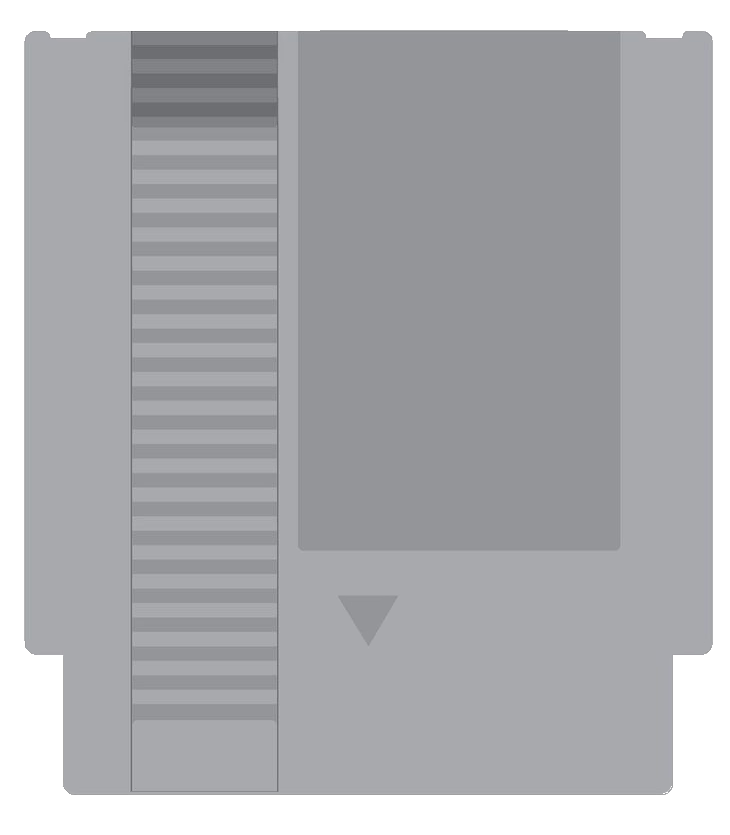
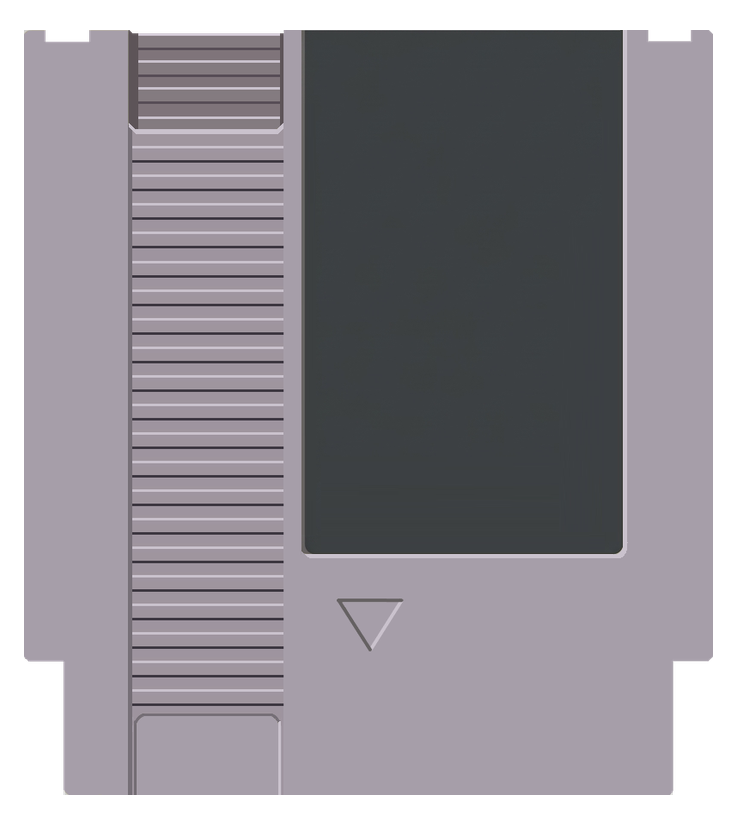
Novos cartuchos NES e GB e correcao do serrilhado da barra lateral
- Substitui o molde do NES mantendo a mesma area no canvas 730x835
- Adiciona o molde do GB, com etiqueta de quatro cantos arredondados
- Capas de GB/GBC passam a ser lidas de labels/gb e labels/gbc
- GBC configurado com medidas provisorias; o PNG do molde ainda falta
- Gera contornos, paineis e icones laterais na resolucao fisica da janela

Claude-Session: https://claude.ai/code/session_018gyPGS9GMd5PgjXCF8iK74

diff --git a/ui_menu.c b/ui_menu.c
@@ -503,10 +503,14 @@ static SDL_Texture *icone_textura_preparada(const char *caminho,
     }
     return tex;
 }
-/* A barra lateral conserva sua textura intermediaria compacta de ate 64px. */
+/* Os icones da lateral sao reduzidos por media de area direto para o tamanho
+   em que aparecem (px fisicos), evitando uma segunda reducao na tela. */
+static int lado_textura_lateral=64;
+static float escala_fisica_ui(void);
 static SDL_Texture *icone_textura_suavizada(const char *caminho,
                                            const SDL_Color *tingir) {
-    return icone_textura_preparada(caminho,tingir,64,64,NULL,NULL);
+    return icone_textura_preparada(caminho,tingir,lado_textura_lateral,
+                                   lado_textura_lateral,NULL,NULL);
 }
 static SDL_Texture *carregar_icone_tingido(const char *caminho,SDL_Color cor) {
     return icone_textura_suavizada(caminho,&cor);
@@ -656,6 +660,7 @@ static void carregar_icones_preset(void) {
     const char *pasta=preset==PRESET_LIGHT?"light":
                       preset==PRESET_DARK?"dark":"colorful";
     const int custom=pacote_usuario_selecionado[0]!='\0';
+    lado_textura_lateral=(int)lroundf(SIDEBAR_ICON*escala_fisica_ui());
     for(int i=0;i<TOTAL_ACOES_LATERAIS;++i) {
         if(icones_laterais[i]) {
             SDL_DestroyTexture(icones_laterais[i]);
@@ -1549,7 +1554,8 @@ static void contorno(SDL_Rect r, int espessura, SDL_Color c) {
    Cache de geometrias evita reconstruir os paineis a cada frame. */
 #define LIMITE_CACHE_ARREDONDADO 96
 typedef struct {
-    int w, h, raio, borda;
+    int w, h;
+    float raio, borda;
     SDL_Color cor;
     SDL_Texture *tex;
 } EntradaArredondado;
@@ -1560,16 +1566,23 @@ static int proximo_cache_arredondado=0;
 static float limite01(float n) {
     return n<0.0f?0.0f:(n>1.0f?1.0f:n);
 }
-static float cobertura_arredondada(float px,float py,int largura,int altura,int raio) {
-    float mx=largura*0.5f, my=altura*0.5f;
+/* Distancia com sinal ate a borda de um retangulo arredondado (negativa
+   dentro). */
+static float distancia_retangulo_arredondado(float px,float py,float w,float h,
+                                             float raio) {
+    float mx=w*0.5f,my=h*0.5f;
     float dx=fabsf(px-mx)-(mx-raio);
     float dy=fabsf(py-my)-(my-raio);
-    float dx_externo=dx>0.0f?dx:0.0f;
-    float dy_externo=dy>0.0f?dy:0.0f;
-    float externo=sqrtf(dx_externo*dx_externo+dy_externo*dy_externo);
-    float interno=fminf(fmaxf(dx,dy),0.0f);
-    float distancia=externo+interno-raio;
-    return limite01(0.5f-distancia);
+    float fx=dx>0.0f?dx:0.0f,fy=dy>0.0f?dy:0.0f;
+    return sqrtf(fx*fx+fy*fy)+fminf(fmaxf(dx,dy),0.0f)-raio;
+}
+/* Pixels reais por pixel logico. O menu usa 1280x720 logicos, ampliados pelo
+   SDL para o tamanho da janela. */
+static float escala_fisica_ui(void) {
+    float sx=1.0f,sy=1.0f;
+    SDL_RenderGetScale(renderer,&sx,&sy);
+    float s=fminf(sx,sy);
+    return s>0.0f?s:1.0f;
 }
 static void limpar_cache_arredondado(void) {
     for(int i=0;i<total_cache_arredondado;++i) {
@@ -1578,7 +1591,8 @@ static void limpar_cache_arredondado(void) {
     }
     total_cache_arredondado=proximo_cache_arredondado=0;
 }
-static SDL_Texture *textura_arredondada(int w,int h,int raio,SDL_Color cor,int borda) {
+/* Todas as medidas aqui sao em pixels fisicos. borda=0 preenche a forma. */
+static SDL_Texture *textura_arredondada(int w,int h,float raio,SDL_Color cor,float borda) {
     for(int i=0;i<total_cache_arredondado;++i) {
         EntradaArredondado *e=&cache_arredondados[i];
         if(e->w==w && e->h==h && e->raio==raio && e->borda==borda &&
@@ -1587,16 +1601,17 @@ static SDL_Texture *textura_arredondada(int w,int h,int raio,SDL_Color cor,int b
     SDL_Surface *superficie=SDL_CreateRGBSurfaceWithFormat(0,w,h,32,SDL_PIXELFORMAT_RGBA32);
     if(!superficie) return NULL;
     if(SDL_LockSurface(superficie)!=0) {SDL_FreeSurface(superficie);return NULL;}
-    int interno_w=w-2*borda, interno_h=h-2*borda;
-    int interno_raio=raio-borda;
-    if(interno_raio<0) interno_raio=0;
+    float interno_w=w-2.0f*borda, interno_h=h-2.0f*borda;
+    float interno_raio=fmaxf(raio-borda,0.0f);
     for(int y=0;y<h;++y) {
         Uint32 *linha=(Uint32*)((Uint8*)superficie->pixels+y*superficie->pitch);
         for(int x=0;x<w;++x) {
             float px=x+0.5f, py=y+0.5f;
-            float cobertura=cobertura_arredondada(px,py,w,h,raio);
-            if(borda>0 && interno_w>0 && interno_h>0) {
-                float interior=cobertura_arredondada(px-borda,py-borda,interno_w,interno_h,interno_raio);
+            float cobertura=limite01(0.5f-distancia_retangulo_arredondado(
+                                           px,py,(float)w,(float)h,raio));
+            if(borda>0.0f && interno_w>0.0f && interno_h>0.0f) {
+                float interior=limite01(0.5f-distancia_retangulo_arredondado(
+                    px-borda,py-borda,interno_w,interno_h,interno_raio));
                 cobertura=limite01(cobertura-interior);
             }
             Uint8 alpha=(Uint8)(cor.a*cobertura+0.5f);
@@ -1608,6 +1623,9 @@ static SDL_Texture *textura_arredondada(int w,int h,int raio,SDL_Color cor,int b
     SDL_FreeSurface(superficie);
     if(!tex) return NULL;
     SDL_SetTextureBlendMode(tex,SDL_BLENDMODE_BLEND);
+#if SDL_VERSION_ATLEAST(2,0,12)
+    SDL_SetTextureScaleMode(tex,SDL_ScaleModeLinear);
+#endif
     int indice;
     if(total_cache_arredondado<LIMITE_CACHE_ARREDONDADO) indice=total_cache_arredondado++;
     else {
@@ -1617,14 +1635,23 @@ static SDL_Texture *textura_arredondada(int w,int h,int raio,SDL_Color cor,int b
     cache_arredondados[indice]=(EntradaArredondado){w,h,raio,borda,cor,tex};
     return tex;
 }
-static void arredondado(SDL_Rect a,int raio,SDL_Color cor,int borda) {
+/* Recebe medidas logicas, mas gera a textura no tamanho em que ela aparece na
+   tela. Assim a curva nao e ampliada depois (causa do serrilhamento). */
+static void arredondado_traco(SDL_Rect a,int raio,SDL_Color cor,float borda) {
     if(a.w<=0 || a.h<=0) return;
     if(raio>a.w/2) raio=a.w/2;
     if(raio>a.h/2) raio=a.h/2;
     if(raio<0) raio=0;
-    if(borda<0) borda=0;
-    SDL_Texture *tex=textura_arredondada(a.w,a.h,raio,cor,borda);
+    if(borda<0.0f) borda=0.0f;
+    const float s=escala_fisica_ui();
+    int w=(int)lroundf(a.w*s), h=(int)lroundf(a.h*s);
+    if(w<1) w=1;
+    if(h<1) h=1;
+    SDL_Texture *tex=textura_arredondada(w,h,raio*s,cor,borda*s);
     if(tex) SDL_RenderCopy(renderer,tex,NULL,&a);
+}
+static void arredondado(SDL_Rect a,int raio,SDL_Color cor,int borda) {
+    arredondado_traco(a,raio,cor,(float)borda);
 }
 static void desenhar_capsula(SDL_Rect r,SDL_Color fundo,SDL_Color borda) {
     arredondado(r,r.h/2,fundo,0);
@@ -1875,58 +1902,15 @@ static void desenhar_icone_fallback(int indice,SDL_Rect caixa,SDL_Color cor) {
     }
 }
 
-/* Contorno por linhas e arcos: nao depende da mascara RGBA da textura
-   arredondada, que em alguns backends cobria a legenda selecionada. */
-/* Contorno anti-aliased de dois pixels logicos, sem preenchimento.
-   Usa cobertura subpixel da textura ja existente (apenas a borda).
-   Os preenchimentos escuros antigos foram removidos dos itens e modais. */
-/* Distancia com sinal ate a borda de um retangulo arredondado (negativa
-   dentro). Mesmo calculo de cobertura_arredondada, mas em float. */
-static float distancia_retangulo_arredondado(float px,float py,float w,float h,
-                                             float raio) {
-    float mx=w*0.5f,my=h*0.5f;
-    float dx=fabsf(px-mx)-(mx-raio);
-    float dy=fabsf(py-my)-(my-raio);
-    float fx=dx>0.0f?dx:0.0f,fy=dy>0.0f?dy:0.0f;
-    return sqrtf(fx*fx+fy*fy)+fminf(fmaxf(dx,dy),0.0f)-raio;
-}
-
-/* Contorno anti-aliased, SEM preenchimento: cada pixel recebe alfa pela
-   cobertura do anel (borda externa menos borda interna), entao nao ha
-   falhas nos cantos nem trechos "tracejados". Desenha somente pontos da
-   propria borda; o miolo nunca e tocado. Espessura em pixels logicos. */
+/* Contorno anti-aliased, sem preenchimento. Usa a mesma textura em resolucao
+   fisica dos paineis; desenhar ponto a ponto em coordenadas logicas fazia cada
+   ponto virar um bloco quando a janela era ampliada. Espessura em px logicos. */
 #define ESPESSURA_SIDEBAR 1.8f  /* ~traco dos icones: ~30px/512 * 29px */
 static void contorno_selecao_esp(SDL_Rect r,int raio,SDL_Color cor,float esp) {
     if(r.w<=2 || r.h<=2) return;
-    if(raio>r.w/2) raio=r.w/2;
-    if(raio>r.h/2) raio=r.h/2;
     if(raio<2) raio=2;
-
     if(esp<1.0f) esp=1.0f;
-    float raio_f=(float)raio;
-    float raio_in=raio_f-esp;
-    if(raio_in<0.0f) raio_in=0.0f;
-    float w_in=(float)r.w-2.0f*esp,h_in=(float)r.h-2.0f*esp;
-
-    SDL_SetRenderDrawBlendMode(renderer,SDL_BLENDMODE_BLEND);
-    for(int y=0;y<r.h;++y) {
-        for(int x=0;x<r.w;++x) {
-            float px=x+0.5f,py=y+0.5f;
-            float ext=limite01(0.5f-distancia_retangulo_arredondado(
-                                         px,py,(float)r.w,(float)r.h,raio_f));
-            if(ext<=0.0f) continue;
-            float inte=0.0f;
-            if(w_in>0.0f && h_in>0.0f)
-                inte=limite01(0.5f-distancia_retangulo_arredondado(
-                                       px-esp,py-esp,w_in,h_in,raio_in));
-            float cobertura=limite01(ext-inte);
-            Uint8 a=(Uint8)(cor.a*cobertura+0.5f);
-            if(a==0) continue;
-            SDL_SetRenderDrawColor(renderer,cor.r,cor.g,cor.b,a);
-            SDL_RenderDrawPoint(renderer,r.x+x,r.y+y);
-        }
-    }
-    SDL_SetRenderDrawColor(renderer,255,255,255,255);
+    arredondado_traco(r,raio,cor,esp);
 }
 
 /* Demais usos (modais/listas) mantem o traco fino de antes. */
@@ -1939,6 +1923,9 @@ static void desenhar_sidebar(int vh) {
     SDL_Rect painel;
     int lista_y=0,h_item=0;
     obter_geometria_sidebar(vh,&painel,&lista_y,&h_item,NULL);
+    /* Janela redimensionada ou tela cheia: refazer os icones na nova escala. */
+    if(lado_textura_lateral!=(int)lroundf(SIDEBAR_ICON*escala_fisica_ui()))
+        carregar_icones_preset();
     /* Vidro opcional: os icones podem flutuar diretamente no wallpaper. */
     SDL_Color vidro = preset==PRESET_LIGHT
         ? (SDL_Color){25,37,73,142}

diff --git a/console_registry.c b/console_registry.c
@@ -29,26 +29,30 @@ EXT_LIST(ext_arcade, ".zip", ".7z");
  * diretamente em roms/.
  */
 static const ConsoleConfig consoles[] = {
-    {"atari2600", "Atari 2600", ext_atari2600, sizeof(ext_atari2600)/sizeof(ext_atari2600[0]), "roms/atari2600", "assets/atari2600", NULL, 400,400, 0,0,0,0, CAPA_CONTAIN, 0, NULL, "ui/consoles/atari_icon.png"},
-    /* Coordenadas medidas no arquivo templates/nes_template.png (730x835).
-       molde_w/molde_h DEVEM ser o tamanho real do PNG; off_x/off_y/label_w/label_h
-       sao medidos nesse mesmo PNG. A etiqueta do NES ocupa x=298..619, y=31..550.
-       Os cantos inferiores do rebaixo tem raio ~6 px (medido no template). */
-    {"nes", "Nintendo Entertainment System", ext_nes, sizeof(ext_nes)/sizeof(ext_nes[0]), "roms/nes", "labels/nes", "assets/nes/body/cartridge_base.png", 730,835, 298,31,322,520, CAPA_AUTO, 6, "cores/fceumm_libretro.dll", "ui/consoles/nes_icon.png"},
-    {"snes", "Super Nintendo", ext_snes, sizeof(ext_snes)/sizeof(ext_snes[0]), "roms/snes", "assets/snes", "templates/snes_template.png", 400,400, 40,100,320,220, CAPA_CONTAIN, 0, NULL, NULL},
-    {"gb", "Game Boy", ext_gb, sizeof(ext_gb)/sizeof(ext_gb[0]), "roms/gb", "assets/gb", NULL, 400,400, 0,0,0,0, CAPA_CONTAIN, 0, "cores/gambatte_libretro.dll", "ui/consoles/gb_icon.png"},
-    {"gbc", "Game Boy Color", ext_gbc, sizeof(ext_gbc)/sizeof(ext_gbc[0]), "roms/gbc", "assets/gbc", NULL, 400,400, 0,0,0,0, CAPA_CONTAIN, 0, "cores/gambatte_libretro.dll", "ui/consoles/gbc_icon.png"},
-    {"gba", "Game Boy Advance", ext_gba, sizeof(ext_gba)/sizeof(ext_gba[0]), "roms/gba", "assets/gba", "templates/gba_template.png", 400,400, 60,120,280,150, CAPA_CONTAIN, 0, NULL, "ui/consoles/gba_icon.png"},
-    {"n64", "Nintendo 64", ext_n64, sizeof(ext_n64)/sizeof(ext_n64[0]), "roms/n64", "assets/n64", NULL, 400,400, 0,0,0,0, CAPA_CONTAIN, 0, NULL, NULL},
-    {"nds", "Nintendo DS", ext_ds, sizeof(ext_ds)/sizeof(ext_ds[0]), "roms/nds", "assets/nds", NULL, 400,400, 0,0,0,0, CAPA_CONTAIN, 0, NULL, "ui/consoles/ds_icon.png"},
-    {"sms", "Master System", ext_sms, sizeof(ext_sms)/sizeof(ext_sms[0]), "roms/sms", "assets/sms", NULL, 400,400, 0,0,0,0, CAPA_CONTAIN, 0, NULL, NULL},
-    {"gamegear", "Game Gear", ext_gamegear, sizeof(ext_gamegear)/sizeof(ext_gamegear[0]), "roms/gamegear", "assets/gamegear", NULL, 400,400, 0,0,0,0, CAPA_CONTAIN, 0, NULL, NULL},
-    {"genesis", "Mega Drive / Genesis", ext_genesis, sizeof(ext_genesis)/sizeof(ext_genesis[0]), "roms/genesis", "assets/genesis", NULL, 400,400, 0,0,0,0, CAPA_CONTAIN, 0, NULL, NULL},
-    {"ps1", "PlayStation", ext_ps1, sizeof(ext_ps1)/sizeof(ext_ps1[0]), "roms/ps1", "assets/ps1", NULL, 400,400, 0,0,0,0, CAPA_CONTAIN, 0, NULL, "ui/consoles/ps1_icon.png"},
-    {"psp", "PlayStation Portable", ext_psp, sizeof(ext_psp)/sizeof(ext_psp[0]), "roms/psp", "assets/psp", NULL, 400,400, 0,0,0,0, CAPA_CONTAIN, 0, NULL, "ui/consoles/psp_icon.png"},
-    {"dreamcast", "Dreamcast", ext_dreamcast, sizeof(ext_dreamcast)/sizeof(ext_dreamcast[0]), "roms/dreamcast", "assets/dreamcast", NULL, 400,400, 0,0,0,0, CAPA_CONTAIN, 0, NULL, NULL},
-    {"neogeo", "Neo Geo", ext_neogeo, sizeof(ext_neogeo)/sizeof(ext_neogeo[0]), "roms/neogeo", "assets/neogeo", NULL, 400,400, 0,0,0,0, CAPA_CONTAIN, 0, NULL, NULL},
-    {"arcade", "Arcade", ext_arcade, sizeof(ext_arcade)/sizeof(ext_arcade[0]), "roms/arcade", "assets/arcade", NULL, 400,400, 0,0,0,0, CAPA_CONTAIN, 0, NULL, NULL}
+    {"atari2600", "Atari 2600", ext_atari2600, sizeof(ext_atari2600)/sizeof(ext_atari2600[0]), "roms/atari2600", "assets/atari2600", NULL, 400,400, 0,0,0,0, CAPA_CONTAIN, 0, NULL, "ui/consoles/atari_icon.png", 0},
+    /* Todos os moldes usam um canvas de 730x835, com o cartucho ocupando
+       765 px de altura a partir de y=30. molde_w/molde_h DEVEM ser o tamanho
+       real do PNG; off_x/off_y/label_w/label_h sao medidos nesse mesmo PNG.
+       NES: cartucho em x=24..713; etiqueta em x=304..623, y=30..554. */
+    {"nes", "Nintendo Entertainment System", ext_nes, sizeof(ext_nes)/sizeof(ext_nes[0]), "roms/nes", "labels/nes", "assets/nes/body/cartridge_base.png", 730,835, 304,30,319,524, CAPA_AUTO, 10, "cores/fceumm_libretro.dll", "ui/consoles/nes_icon.png", 0},
+    {"snes", "Super Nintendo", ext_snes, sizeof(ext_snes)/sizeof(ext_snes[0]), "roms/snes", "assets/snes", "templates/snes_template.png", 400,400, 40,100,320,220, CAPA_CONTAIN, 0, NULL, NULL, 0},
+    /* GB: cartucho em x=32..698; etiqueta em x=118..611, y=252..689,
+       com os quatro cantos arredondados. */
+    {"gb", "Game Boy", ext_gb, sizeof(ext_gb)/sizeof(ext_gb[0]), "roms/gb", "labels/gb", "assets/gb/body/cartridge_base.png", 730,835, 118,252,493,437, CAPA_AUTO, 18, "cores/gambatte_libretro.dll", "ui/consoles/gb_icon.png", 18},
+    /* GBC: PROVISORIO, com as medidas do GB. Conferir quando o PNG do molde
+       for adicionado; enquanto ele nao existir, o GBC aparece como card. */
+    {"gbc", "Game Boy Color", ext_gbc, sizeof(ext_gbc)/sizeof(ext_gbc[0]), "roms/gbc", "labels/gbc", "assets/gbc/body/cartridge_base.png", 730,835, 118,252,493,437, CAPA_AUTO, 18, "cores/gambatte_libretro.dll", "ui/consoles/gbc_icon.png", 18},
+    {"gba", "Game Boy Advance", ext_gba, sizeof(ext_gba)/sizeof(ext_gba[0]), "roms/gba", "assets/gba", "templates/gba_template.png", 400,400, 60,120,280,150, CAPA_CONTAIN, 0, NULL, "ui/consoles/gba_icon.png", 0},
+    {"n64", "Nintendo 64", ext_n64, sizeof(ext_n64)/sizeof(ext_n64[0]), "roms/n64", "assets/n64", NULL, 400,400, 0,0,0,0, CAPA_CONTAIN, 0, NULL, NULL, 0},
+    {"nds", "Nintendo DS", ext_ds, sizeof(ext_ds)/sizeof(ext_ds[0]), "roms/nds", "assets/nds", NULL, 400,400, 0,0,0,0, CAPA_CONTAIN, 0, NULL, "ui/consoles/ds_icon.png", 0},
+    {"sms", "Master System", ext_sms, sizeof(ext_sms)/sizeof(ext_sms[0]), "roms/sms", "assets/sms", NULL, 400,400, 0,0,0,0, CAPA_CONTAIN, 0, NULL, NULL, 0},
+    {"gamegear", "Game Gear", ext_gamegear, sizeof(ext_gamegear)/sizeof(ext_gamegear[0]), "roms/gamegear", "assets/gamegear", NULL, 400,400, 0,0,0,0, CAPA_CONTAIN, 0, NULL, NULL, 0},
+    {"genesis", "Mega Drive / Genesis", ext_genesis, sizeof(ext_genesis)/sizeof(ext_genesis[0]), "roms/genesis", "assets/genesis", NULL, 400,400, 0,0,0,0, CAPA_CONTAIN, 0, NULL, NULL, 0},
+    {"ps1", "PlayStation", ext_ps1, sizeof(ext_ps1)/sizeof(ext_ps1[0]), "roms/ps1", "assets/ps1", NULL, 400,400, 0,0,0,0, CAPA_CONTAIN, 0, NULL, "ui/consoles/ps1_icon.png", 0},
+    {"psp", "PlayStation Portable", ext_psp, sizeof(ext_psp)/sizeof(ext_psp[0]), "roms/psp", "assets/psp", NULL, 400,400, 0,0,0,0, CAPA_CONTAIN, 0, NULL, "ui/consoles/psp_icon.png", 0},
+    {"dreamcast", "Dreamcast", ext_dreamcast, sizeof(ext_dreamcast)/sizeof(ext_dreamcast[0]), "roms/dreamcast", "assets/dreamcast", NULL, 400,400, 0,0,0,0, CAPA_CONTAIN, 0, NULL, NULL, 0},
+    {"neogeo", "Neo Geo", ext_neogeo, sizeof(ext_neogeo)/sizeof(ext_neogeo[0]), "roms/neogeo", "assets/neogeo", NULL, 400,400, 0,0,0,0, CAPA_CONTAIN, 0, NULL, NULL, 0},
+    {"arcade", "Arcade", ext_arcade, sizeof(ext_arcade)/sizeof(ext_arcade[0]), "roms/arcade", "assets/arcade", NULL, 400,400, 0,0,0,0, CAPA_CONTAIN, 0, NULL, NULL, 0}
 };
 
 static int equals_ignore_case(const char *a, const char *b) {

diff --git a/image_processor.c b/image_processor.c
@@ -9,9 +9,10 @@
    (diferenca de ate 5%) o pequeno excesso e recortado. */
 #define TOLERANCIA_PROPORCAO_AUTO 0.05f
 
-/* Arredonda os dois cantos inferiores da etiqueta com bordas suaves:
-   o alfa de cada pixel vira a cobertura dele dentro do arco (0 a 255). */
-static void aplicar_mascara_cantos_inferiores(SDL_Surface *surface, int raio) {
+/* Arredonda os dois cantos de cima (topo=1) ou de baixo (topo=0) da etiqueta
+   com bordas suaves: o alfa de cada pixel vira a cobertura dele dentro do
+   arco (0 a 255). */
+static void aplicar_mascara_cantos(SDL_Surface *surface, int raio, int topo) {
     if (!surface || surface->format->BytesPerPixel != 4 || raio <= 0)
         return;
 
@@ -24,7 +25,10 @@ static void aplicar_mascara_cantos_inferiores(SDL_Surface *surface, int raio) {
     if (SDL_LockSurface(surface) != 0)
         return;
 
-    for (int y = h - raio; y < h; ++y) {
+    int primeira = topo ? 0 : h - raio;
+    float cy = topo ? (float)raio : (float)(h - raio);
+
+    for (int y = primeira; y < primeira + raio; ++y) {
         for (int x = 0; x < w; ++x) {
             float cx;
             if (x < raio) cx = (float)raio;
@@ -32,7 +36,7 @@ static void aplicar_mascara_cantos_inferiores(SDL_Surface *surface, int raio) {
             else continue;
 
             float dx = (x + 0.5f) - cx;
-            float dy = (y + 0.5f) - (float)(h - raio);
+            float dy = (y + 0.5f) - cy;
             float cobertura = (float)raio - sqrtf(dx * dx + dy * dy) + 0.5f;
             if (cobertura >= 1.0f) continue;
             if (cobertura < 0.0f) cobertura = 0.0f;
@@ -248,8 +252,8 @@ SDL_Texture *image_processor_load_cover(
         SDL_FreeSurface(arte);
     }
 
-    aplicar_mascara_cantos_inferiores(
-        etiqueta, console->raio_cantos_inferiores);
+    aplicar_mascara_cantos(etiqueta, console->raio_cantos_inferiores, 0);
+    aplicar_mascara_cantos(etiqueta, console->raio_cantos_superiores, 1);
 
     SDL_SetSurfaceBlendMode(etiqueta, SDL_BLENDMODE_BLEND);
 

diff --git a/console_registry.h b/console_registry.h
@@ -26,6 +26,7 @@ typedef struct {
     /* Campos finais: ficam NULL (zero) quando um console ainda nao os define. */
     const char *caminho_core;   /* DLL do nucleo libretro; NULL = console ainda nao ativo */
     const char *caminho_icone;  /* icone do console no menu; NULL = mostra so o nome */
+    int raio_cantos_superiores; /* como o inferior; 0 = cantos retos em cima */
 } ConsoleConfig;
 
 const ConsoleConfig *console_registry_get_all(size_t *quantidade);
